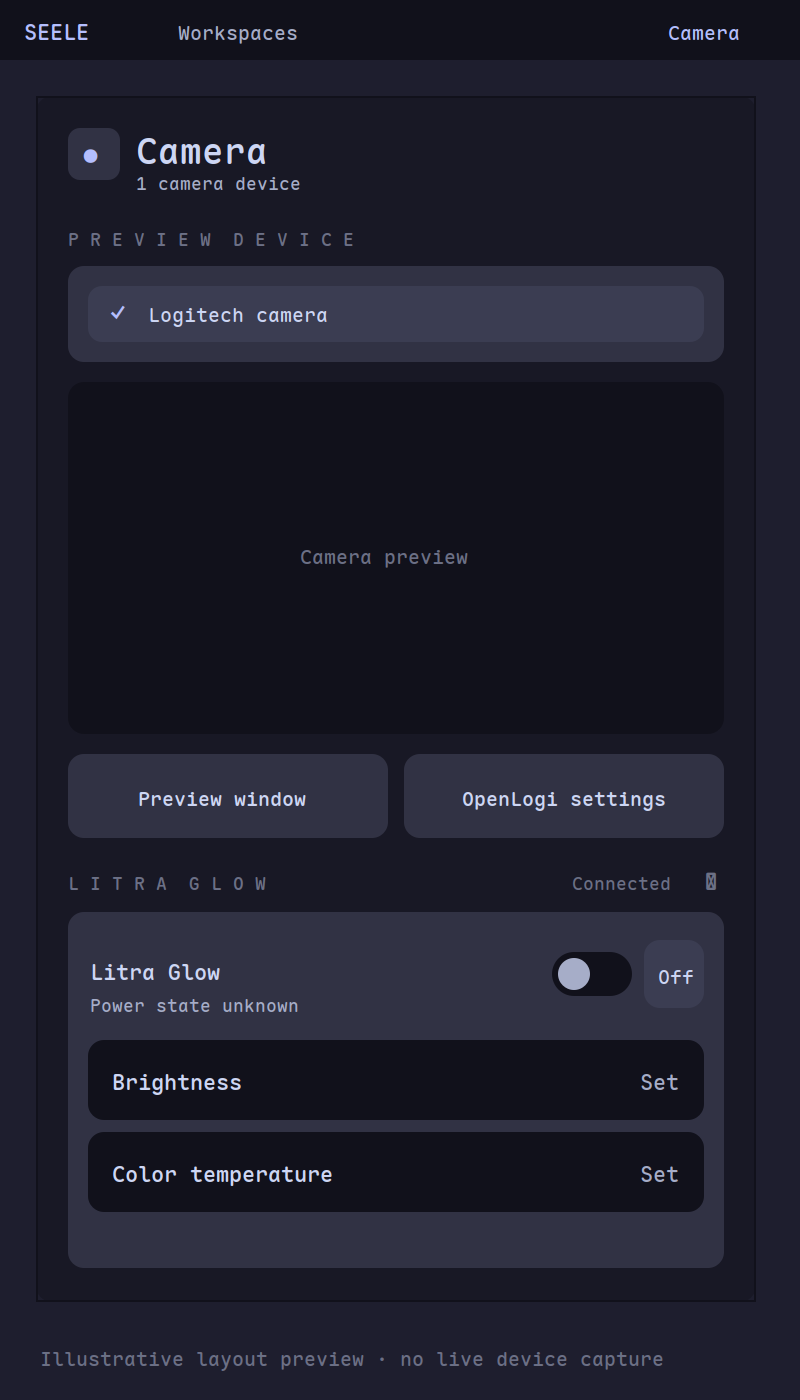
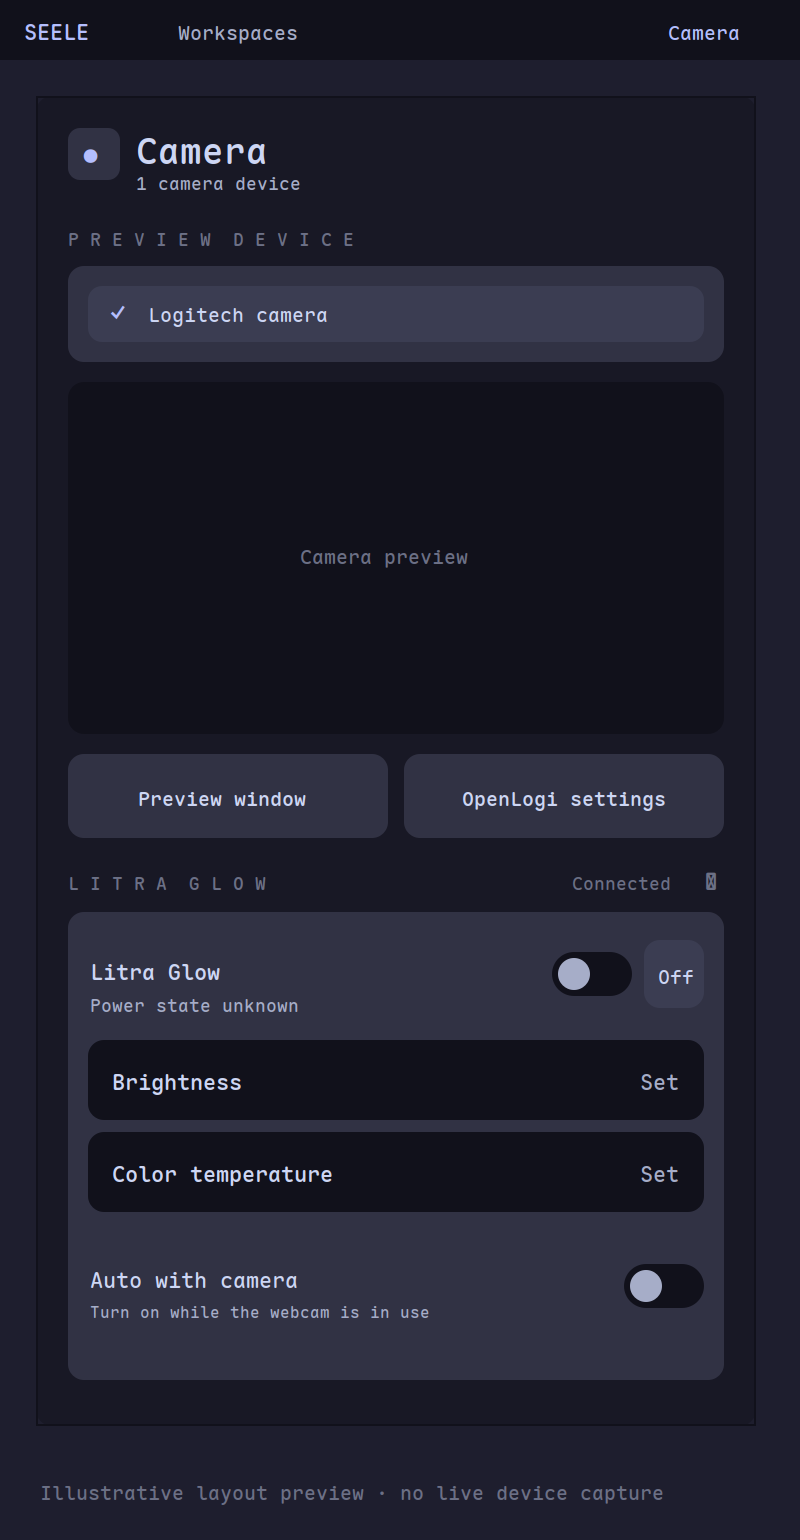
Automate Litra Glow power with webcam activity

diff --git a/projects/shell/shell.qml b/projects/shell/shell.qml
@@ -165,6 +165,7 @@ Shared.Theme {
       root.litraBrightness = -1
       root.litraTemperature = -1
     }
+    function onLitraAutoEnabledChanged() { root.litraPowerKnown = false }
   }
   readonly property var agentProjection: Bridge.call("presentation.agents", [
     (agentData.launchers || []).map(function(item) { return {id:item.id, name:item.name} }),
@@ -10761,7 +10762,9 @@ Shared.Theme {
                       spacing: root.spaceTight
                       Text { text: "Litra Glow"; color: root.text; font.family: root.fontFamily; font.pixelSize: root.textBody }
                       Text {
-                        text: root.litraPowerKnown ? (root.litraPower ? "On" : "Off") + " · last set" : "Power state unknown"
+                        text: root.systemData.litraAutoEnabled
+                          ? root.systemData.litraAutoError || (root.systemData.litraAutoPower === null ? "Automatic · waiting for camera" : root.systemData.litraAutoPower === root.systemData.cameraActive ? (root.systemData.cameraActive ? "Automatic · camera in use" : "Automatic · camera idle") : "Automatic · syncing")
+                          : root.litraPowerKnown ? (root.litraPower ? "On" : "Off") + " · last set" : "Power state unknown"
                         color: root.subtext
                         font.family: root.fontFamily
                         font.pixelSize: root.textCaption
@@ -10770,7 +10773,7 @@ Shared.Theme {
                     Shared.ActionButton {
                       id: litraOffAction
                       theme: root
-                      visible: !root.litraPowerKnown
+                      visible: !root.systemData.litraAutoEnabled && !root.litraPowerKnown
                       anchors { right: parent.right; verticalCenter: parent.verticalCenter }
                       text: "Off"
                       enabled: !controlProcess.running
@@ -10779,9 +10782,9 @@ Shared.Theme {
                     ControlSwitch {
                       id: litraPowerSwitch
                       anchors { right: litraOffAction.visible ? litraOffAction.left : parent.right; rightMargin: litraOffAction.visible ? root.spaceSmall : 0; verticalCenter: parent.verticalCenter }
-                      checked: root.litraPowerKnown && root.litraPower
+                      checked: root.systemData.litraAutoEnabled ? root.systemData.litraAutoPower === true : root.litraPowerKnown && root.litraPower
                       busy: root.controlBusy("litra-glow", checked ? "off" : "on", root.systemData.litraGlowDevice)
-                      enabled: !controlProcess.running || busy
+                      enabled: !root.systemData.litraAutoEnabled && (!controlProcess.running || busy)
                       onToggled: root.runControl("litra-glow", checked ? "off" : "on", root.systemData.litraGlowDevice)
                     }
                   }
@@ -10808,6 +10811,24 @@ Shared.Theme {
                     valueKnown: root.litraTemperature >= 0
                     enabled: !controlProcess.running
                     onCommitted: value => root.runControl("litra-glow", "temperature:" + Math.round(value), root.systemData.litraGlowDevice)
+                  }
+                  Item {
+                    width: parent.width
+                    height: root.detailRowHeight
+                    Column {
+                      anchors { left: parent.left; right: litraAutoSwitch.left; rightMargin: root.spaceMedium; verticalCenter: parent.verticalCenter }
+                      spacing: root.spaceTight
+                      Text { text: "Auto with camera"; color: root.text; font.family: root.fontFamily; font.pixelSize: root.textBody }
+                      Text { text: "Turn on while the webcam is in use"; color: root.subtext; font.family: root.fontFamily; font.pixelSize: root.textCaption; elide: Text.ElideRight; width: parent.width }
+                    }
+                    ControlSwitch {
+                      id: litraAutoSwitch
+                      anchors { right: parent.right; verticalCenter: parent.verticalCenter }
+                      checked: root.systemData.litraAutoEnabled
+                      busy: root.controlBusy("litra-glow-auto", checked ? "off" : "on")
+                      enabled: !controlProcess.running || busy
+                      onToggled: root.runControl("litra-glow-auto", checked ? "off" : "on")
+                    }
                   }
                 }
               }

diff --git a/projects/shell/SystemState.qml b/projects/shell/SystemState.qml
@@ -36,6 +36,9 @@ QtObject {
   property string cameraDevice: ""
   property bool cameraActive: false
   property string litraGlowDevice: ""
+  property bool litraAutoEnabled: false
+  property var litraAutoPower: null
+  property string litraAutoError: ""
   property bool screenRecording: false
   property var audioDevices: []
   property var audioStreams: []

diff --git a/projects/tools/src/live.rs b/projects/tools/src/live.rs
@@ -192,7 +192,11 @@ fn watch_auxiliary(wake: mpsc::Receiver<()>, bluetooth: Bluetooth, sender: SyncS
     }
 }
 
-fn watch_pipewire(sender: SyncSender<Event>, audio: Arc<Mutex<()>>) {
+fn watch_pipewire(
+    sender: SyncSender<Event>,
+    audio: Arc<Mutex<()>>,
+    camera: Arc<Mutex<Option<bool>>>,
+) {
     let stop = crate::command::shutdown_signal();
     while stop.load(Ordering::Relaxed) == 0 {
         let mut command = Command::new("pw-dump");
@@ -242,6 +246,7 @@ fn watch_pipewire(sender: SyncSender<Event>, audio: Arc<Mutex<()>>) {
                     }
                     let key = graph.volume_key();
                     let patch = control::graph_status(graph.snapshot(), &mut gate);
+                    *camera.lock().unwrap() = patch["cameraActive"].as_bool();
                     let _guard = audio.lock().unwrap();
                     let patch = if key != volume_key {
                         volume_key = key;
@@ -260,6 +265,9 @@ fn watch_pipewire(sender: SyncSender<Event>, audio: Arc<Mutex<()>>) {
         if closed || stop.load(Ordering::Relaxed) != 0 {
             return;
         }
+        // A disconnected graph says nothing about the webcam. Do not switch
+        // the light off until a new graph has established its actual state.
+        *camera.lock().unwrap() = None;
         {
             let _guard = audio.lock().unwrap();
             let reset = control::merge_status([
@@ -271,6 +279,89 @@ fn watch_pipewire(sender: SyncSender<Event>, audio: Arc<Mutex<()>>) {
             }
         }
         thread::sleep(Duration::from_secs(1));
+    }
+}
+
+fn watch_litra_auto(camera: Arc<Mutex<Option<bool>>>, sender: SyncSender<Event>) {
+    let stop = crate::command::shutdown_signal();
+    let mut enabled_before = false;
+    let mut device: Option<String> = None;
+    let mut applied: Option<(String, bool)> = None;
+    let mut attempted: Option<(String, bool)> = None;
+    let mut observed: Option<bool> = None;
+    let mut observed_since = Instant::now();
+    let mut last_probe = Instant::now() - Duration::from_secs(5);
+    let mut next_attempt = Instant::now();
+    while stop.load(Ordering::Relaxed) == 0 {
+        let enabled = control::litra_auto_enabled();
+        if !enabled {
+            if enabled_before
+                && sender
+                    .send(Event::Patch(
+                        json!({"litraAutoPower":null,"litraAutoError":""}),
+                    ))
+                    .is_err()
+            {
+                return;
+            }
+            enabled_before = false;
+            applied = None;
+            attempted = None;
+            device = None;
+            observed = None;
+        } else {
+            if !enabled_before || last_probe.elapsed() >= Duration::from_secs(5) {
+                let found = control::litra_glow_device();
+                if found != device {
+                    applied = None;
+                    attempted = None;
+                    next_attempt = Instant::now();
+                    if sender
+                        .send(Event::Patch(
+                            json!({"litraAutoPower":null,"litraAutoError":""}),
+                        ))
+                        .is_err()
+                    {
+                        return;
+                    }
+                }
+                device = found;
+                last_probe = Instant::now();
+            }
+            enabled_before = true;
+            let active = *camera.lock().unwrap();
+            if active != observed {
+                observed = active;
+                observed_since = Instant::now();
+            }
+            if let (Some(identity), Some(active)) = (device.as_deref(), active) {
+                let target = (identity.to_owned(), active);
+                if attempted.as_ref() != Some(&target) {
+                    attempted = Some(target.clone());
+                    next_attempt = Instant::now();
+                }
+                // A short graph rebuild can momentarily report no running
+                // source. Wait before switching off, but turn on promptly.
+                if applied.as_ref() != Some(&target)
+                    && Instant::now() >= next_attempt
+                    && (active || observed_since.elapsed() >= Duration::from_millis(750))
+                {
+                    let command = if active { "on" } else { "off" };
+                    let result = control::litra_glow_control(command, identity);
+                    next_attempt = Instant::now() + Duration::from_secs(5);
+                    let patch = if result.is_ok() {
+                        applied = Some(target);
+                        json!({"litraAutoPower":active,"litraAutoError":""})
+                    } else {
+                        json!({"litraAutoError":"Could not set Litra Glow"})
+                    };
+                    if sender.send(Event::Patch(patch)).is_err() {
+                        return;
+                    }
+                }
+            }
+        }
+        thread::sleep(Duration::from_millis(250));
     }
 }
 
@@ -309,8 +400,14 @@ pub(crate) fn run() -> Result {
         watch_auxiliary(wake, cached, updates)
     }));
     let audio = Arc::new(Mutex::new(()));
-    let (updates, guard) = (sender.clone(), audio.clone());
-    workers.push(thread::spawn(move || watch_pipewire(updates, guard)));
+    let camera = Arc::new(Mutex::new(None));
+    let (updates, guard, activity) = (sender.clone(), audio.clone(), camera.clone());
+    workers.push(thread::spawn(move || {
+        watch_pipewire(updates, guard, activity)
+    }));
+    workers.push(thread::spawn(move || {
+        watch_litra_auto(camera, sender.clone())
+    }));
     thread::spawn(move || {
         let mut input = io::stdin().lock();
         let mut frame = Vec::new();

diff --git a/projects/tools/src/control.rs b/projects/tools/src/control.rs
@@ -558,7 +558,7 @@ fn litra_glow_devices(list: &str) -> Vec<String> {
         .collect()
 }
 
-fn litra_glow_device() -> Option<String> {
+pub(crate) fn litra_glow_device() -> Option<String> {
     output("openlogi", ["light", "list"])
         .and_then(|list| litra_glow_devices(&list).into_iter().next())
 }
@@ -600,12 +600,23 @@ fn litra_glow_args<'a>(command: &'a str, identity: &'a str) -> Result<Vec<&'a st
     }
 }
 
-fn litra_glow_control(command: &str, identity: &str) -> Result {
+pub(crate) fn litra_glow_control(command: &str, identity: &str) -> Result {
     let args = litra_glow_args(command, identity)?;
     if litra_glow_device().as_deref() != Some(identity) {
         return Err("Litra Glow is no longer available".into());
     }
     require_status("openlogi", args)
+}
+
+pub(crate) fn litra_auto_enabled() -> bool {
+    fs::read_to_string(config_file("litra-glow-auto")).is_ok_and(|value| value.trim() == "on")
+}
+
+fn set_litra_auto_enabled(value: &str) -> Result {
+    if !matches!(value, "on" | "off") {
+        return Err("invalid Litra Glow automatic mode".into());
+    }
+    atomic_write(&config_file("litra-glow-auto"), value.as_bytes())
 }
 fn percent(text: &str) -> u64 {
     text.split_whitespace()
@@ -777,7 +788,7 @@ pub(crate) fn auxiliary_status() -> Value {
         "networkAddresses":addresses.pointer("/0/addr_info").cloned().unwrap_or_else(|| json!([])),
         "voxtypeStatus":output("voxtype",["status"]).unwrap_or_else(||"unavailable".into()).lines().next().unwrap_or("unavailable"),
         "cameraDevices":cameras,"cameraDevice":cameras.first().and_then(|value|value["device"].as_str()).unwrap_or(""),
-        "litraGlowDevice":litra_glow})
+        "litraGlowDevice":litra_glow,"litraAutoEnabled":litra_auto_enabled()})
 }
 
 // The stream gate belongs to the caller, because which applications belong in
@@ -1545,6 +1556,7 @@ pub fn run(arguments: &[String]) -> Result {
             detached("cameraview", &["-d".into(), device])?;
         }
         "litra-glow" => litra_glow_control(arg(1), arg(2))?,
+        "litra-glow-auto" => set_litra_auto_enabled(arg(1))?,
         "notification-action" => {
             let _: u32 = arg(1).parse().map_err(|_| "invalid notification id")?;
             if arg(2).is_empty() {

diff --git a/projects/tools/README.md b/projects/tools/README.md
@@ -30,6 +30,15 @@ avoiding repeated registry searches. Shutdown joins status producers before the
 controller exits. Bluetooth pairing cleanup closes discoverability even after
 SIGTERM or a D-Bus failure.
 
+The Camera panel's Litra Glow automatic mode is opt-in and saved in
+`seele-shell/litra-glow-auto` under the user's config directory. The resident
+status monitor follows the same PipeWire camera-active signal as the shell's
+camera indicator. It powers the detected Glow on while a camera source runs
+and off after the source has been idle for 750 ms. An unknown or disconnected
+PipeWire graph never triggers an off write. Failed writes retry after five
+seconds; disabling automatic mode leaves the current light state alone. Manual
+power stays available when automatic mode is off.
+
 ## Application launchers and lifecycle adapters
 
 `seele-lock-run` preserves Quickshell's successful daemon handoff and returns
